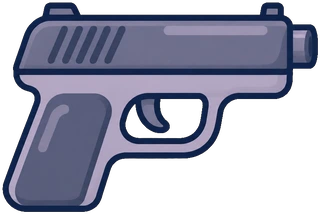
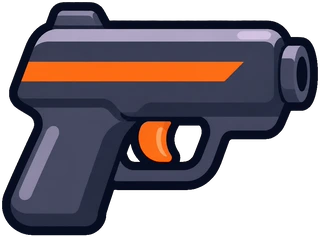
Darker Sidearm with orange accent; mirror Switchback crates so the right spawn isn't boxed in

diff --git a/index.html b/index.html
@@ -1962,7 +1962,7 @@ MAPS.push(
  // Switchback (vertical chases): stone and wooden decks stacked in a zig-zag. Stone you walk round, wood you go straight through, so the
  // quick way up and the safe way up are different
  {name:'Switchback',...ROOM,rects:[FLOOR,S(400,860,800),P(720,720,800),S(400,580,800),P(720,440,800),P(860,300,200),...sym([P(60,780,220),P(80,560,200),PAD(300,1000)])],
-   crates:[[200,940,60],[1660,940,60]],sp:[[160,960],[1760,960],[500,820],[1420,680]]},
+   crates:symC([[620,940,60]]),sp:[[160,960],[1760,960],[500,820],[1420,680]]},
  // Hive (homing): two rows of half-open cells. The bottom cells have stone floors you can duck in; the top row is wood to pop up through
  {name:'Hive',...ROOM,rects:[FLOOR,S(260,820,280),S(820,820,280),S(1380,820,280),WL(260,690,130,24),WL(1636,690,130,24),WL(820,690,130,24),WL(1076,690,130,24),
    P(260,560,280),P(820,560,280),P(1380,560,280),WL(516,430,130,24),WL(1380,430,130,24),P(540,320,280),P(1100,320,280)],sp:[[130,960],[1790,960],[400,780],[1520,780]]},
@@ -4958,7 +4958,7 @@ function gunAccent(p){const s=p.s;return s.poison?C.poison:s.slow>0?'#bfe9ff':s.
    so a draft that changes your gun type shows it in your hand. gx/gy: where the hand holds it, as a share of the picture;
    w: its width in the arena. Until a picture loads (or if it fails) the drawn gun below stands in */
 // hx/hy: the handle, where the fist closes (the gun hangs from it); gy: the barrel's line; sx/sy: where a two-handed gun's free hand holds it
-const GUNS={sidearm:{ar:0.6684,n:'Sidearm',w:46,hx:.17,hy:.48,gy:.216},rail:{ar:0.3125,n:'Rail Rifle',w:80,hx:.23,hy:.72,gy:.49,sx:.53,sy:.56},scatter:{ar:0.384,n:'Scattergun',w:62,hx:.112,hy:.67,gy:.37,sx:.59,sy:.67},
+const GUNS={sidearm:{ar:0.74,n:'Sidearm',w:46,hx:.21,hy:.5,gy:.3},rail:{ar:0.3125,n:'Rail Rifle',w:80,hx:.23,hy:.72,gy:.49,sx:.53,sy:.56},scatter:{ar:0.384,n:'Scattergun',w:62,hx:.112,hy:.67,gy:.37,sx:.59,sy:.67},
   lob:{ar:0.447,n:'Lobber',w:60,hx:.123,hy:.65,gy:.39,sx:.5,sy:.74},heavy:{ar:0.506,n:'Hand Cannon',w:60,hx:.126,hy:.59,gy:.305},smg:{ar:0.659,n:'SMG',w:52,hx:.108,hy:.58,gy:.283},
   lance:{ar:0.290625,n:'Sun Lance',w:86,hx:.183,hy:.72,gy:.457,sx:.43,sy:.51}};
 const gunKind=s=>s.lance?'lance':s.bulletSpeed>2000?'rail':s.projectiles>2?'scatter':s.bulletGravity>1.3||s.explode>=85?'lob':s.dmg>=80?'heavy':s.fireDelay<.18?'smg':'sidearm';
@@ -5574,7 +5574,7 @@ const frameErrs=new Set();function frameErr(e){const k=String(e&&e.message||e);i
 
 /* ---------- online: peer-to-peer via PeerJS. The host's browser runs the match for both players;
    the guest sends its inputs and draws the host's snapshots. A free public broker only introduces the two browsers. ---------- */
-const BUILD='2026-11-19-seek';   // both players must run the same build: arena lists and rules have to match
+const BUILD='2026-11-19-pistol';   // both players must run the same build: arena lists and rules have to match
 const ROOM_ALPHA='ABCDEFGHJKLMNPQRSTUVWXYZ23456789',ROOM_PREFIX='cuued-v1-';
 const net={role:null,peer:null,conn:null,connected:false,code:'',remoteName:'',remote:null,snap:null,snapAt:0,bmap:new Map(),
   out:{jc:0,bc:0,sc:0},sendT:0,pingT:0,rtt:0,fx:[],joinTimer:0,seq:0,ice:null,relay:false,iceAt:0,iceTried:false,icePromise:null,

diff --git a/src/counterpick.html b/src/counterpick.html
@@ -1955,7 +1955,7 @@ MAPS.push(
  // Switchback (vertical chases): stone and wooden decks stacked in a zig-zag. Stone you walk round, wood you go straight through, so the
  // quick way up and the safe way up are different
  {name:'Switchback',...ROOM,rects:[FLOOR,S(400,860,800),P(720,720,800),S(400,580,800),P(720,440,800),P(860,300,200),...sym([P(60,780,220),P(80,560,200),PAD(300,1000)])],
-   crates:[[200,940,60],[1660,940,60]],sp:[[160,960],[1760,960],[500,820],[1420,680]]},
+   crates:symC([[620,940,60]]),sp:[[160,960],[1760,960],[500,820],[1420,680]]},
  // Hive (homing): two rows of half-open cells. The bottom cells have stone floors you can duck in; the top row is wood to pop up through
  {name:'Hive',...ROOM,rects:[FLOOR,S(260,820,280),S(820,820,280),S(1380,820,280),WL(260,690,130,24),WL(1636,690,130,24),WL(820,690,130,24),WL(1076,690,130,24),
    P(260,560,280),P(820,560,280),P(1380,560,280),WL(516,430,130,24),WL(1380,430,130,24),P(540,320,280),P(1100,320,280)],sp:[[130,960],[1790,960],[400,780],[1520,780]]},
@@ -4951,7 +4951,7 @@ function gunAccent(p){const s=p.s;return s.poison?C.poison:s.slow>0?'#bfe9ff':s.
    so a draft that changes your gun type shows it in your hand. gx/gy: where the hand holds it, as a share of the picture;
    w: its width in the arena. Until a picture loads (or if it fails) the drawn gun below stands in */
 // hx/hy: the handle, where the fist closes (the gun hangs from it); gy: the barrel's line; sx/sy: where a two-handed gun's free hand holds it
-const GUNS={sidearm:{ar:0.6684,n:'Sidearm',w:46,hx:.17,hy:.48,gy:.216},rail:{ar:0.3125,n:'Rail Rifle',w:80,hx:.23,hy:.72,gy:.49,sx:.53,sy:.56},scatter:{ar:0.384,n:'Scattergun',w:62,hx:.112,hy:.67,gy:.37,sx:.59,sy:.67},
+const GUNS={sidearm:{ar:0.74,n:'Sidearm',w:46,hx:.21,hy:.5,gy:.3},rail:{ar:0.3125,n:'Rail Rifle',w:80,hx:.23,hy:.72,gy:.49,sx:.53,sy:.56},scatter:{ar:0.384,n:'Scattergun',w:62,hx:.112,hy:.67,gy:.37,sx:.59,sy:.67},
   lob:{ar:0.447,n:'Lobber',w:60,hx:.123,hy:.65,gy:.39,sx:.5,sy:.74},heavy:{ar:0.506,n:'Hand Cannon',w:60,hx:.126,hy:.59,gy:.305},smg:{ar:0.659,n:'SMG',w:52,hx:.108,hy:.58,gy:.283},
   lance:{ar:0.290625,n:'Sun Lance',w:86,hx:.183,hy:.72,gy:.457,sx:.43,sy:.51}};
 const gunKind=s=>s.lance?'lance':s.bulletSpeed>2000?'rail':s.projectiles>2?'scatter':s.bulletGravity>1.3||s.explode>=85?'lob':s.dmg>=80?'heavy':s.fireDelay<.18?'smg':'sidearm';
@@ -5567,7 +5567,7 @@ const frameErrs=new Set();function frameErr(e){const k=String(e&&e.message||e);i
 
 /* ---------- online: peer-to-peer via PeerJS. The host's browser runs the match for both players;
    the guest sends its inputs and draws the host's snapshots. A free public broker only introduces the two browsers. ---------- */
-const BUILD='2026-11-19-seek';   // both players must run the same build: arena lists and rules have to match
+const BUILD='2026-11-19-pistol';   // both players must run the same build: arena lists and rules have to match
 const ROOM_ALPHA='ABCDEFGHJKLMNPQRSTUVWXYZ23456789',ROOM_PREFIX='cuued-v1-';
 const net={role:null,peer:null,conn:null,connected:false,code:'',remoteName:'',remote:null,snap:null,snapAt:0,bmap:new Map(),
   out:{jc:0,bc:0,sc:0},sendT:0,pingT:0,rtt:0,fx:[],joinTimer:0,seq:0,ice:null,relay:false,iceAt:0,iceTried:false,icePromise:null,

diff --git a/README.md b/README.md
@@ -201,4 +201,5 @@ The 15% growth no longer adds loose floating planks. `dress()` drops architectur
 - **Explosions** use a new painted blast sound (`sfx/blast_*.mp3`); the plain hit sound no longer stacks on explosive hits.
 - **Moving platforms** start mid-track so they sit centred in their arenas.
 - **Sandbox and Customize** share the menu look: a left rail of choices, cards or items on the right, big Play/Done button bottom-right.
-- **Sidearm** is now a simple grey cartoon pistol (`guns/sidearm.webp`, made on Higgsfield).
+- **Sidearm** is a chunky dark-gunmetal cartoon pistol with an orange slide stripe and trigger (`guns/sidearm.webp`, made on Higgsfield).
+- **Switchback** crates now sit as mirrored cover in the middle instead of boxing in the right spawn behind its jump pad.
